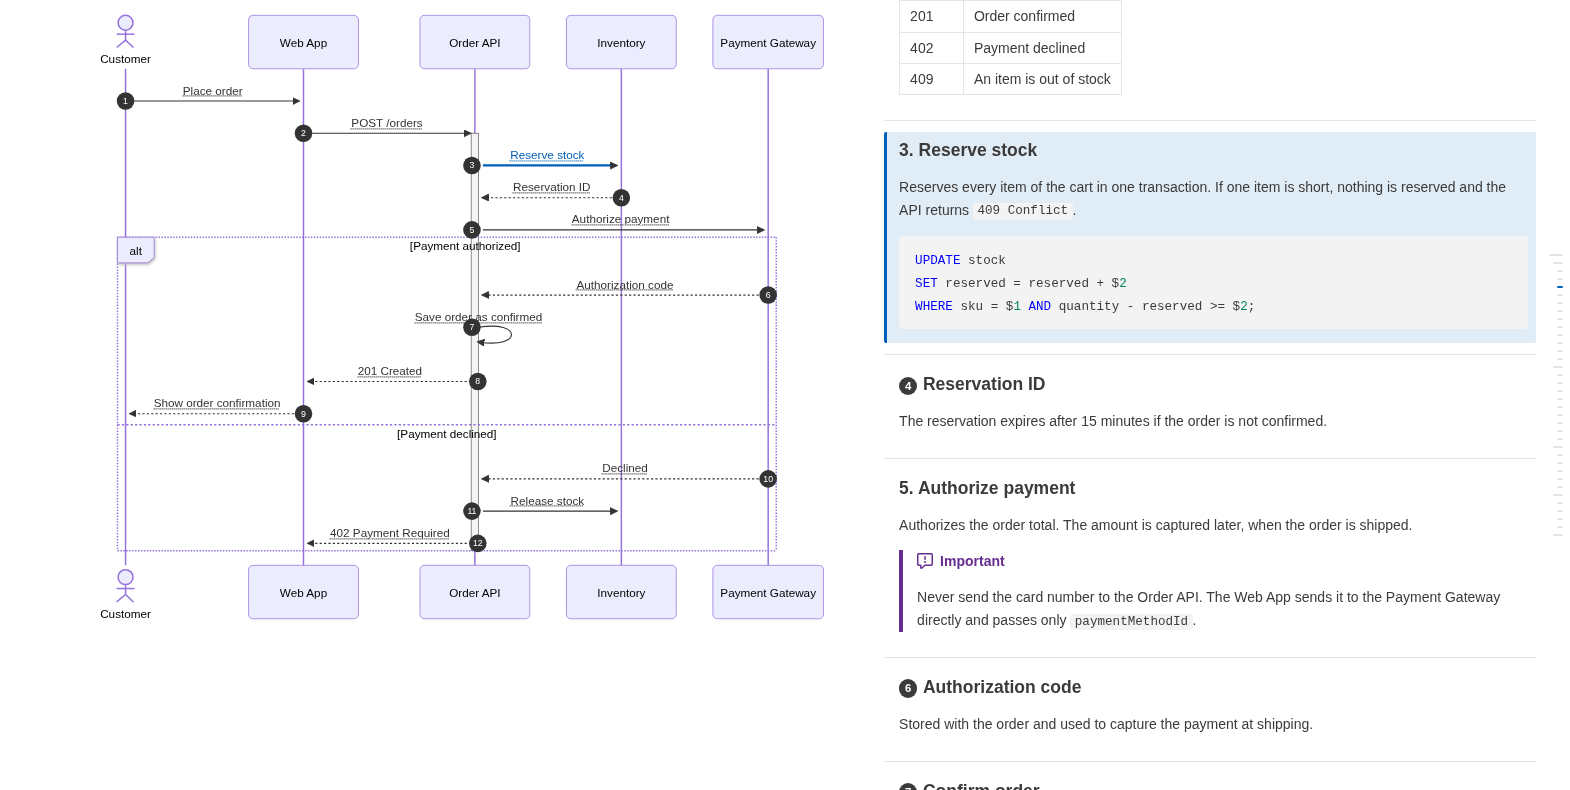
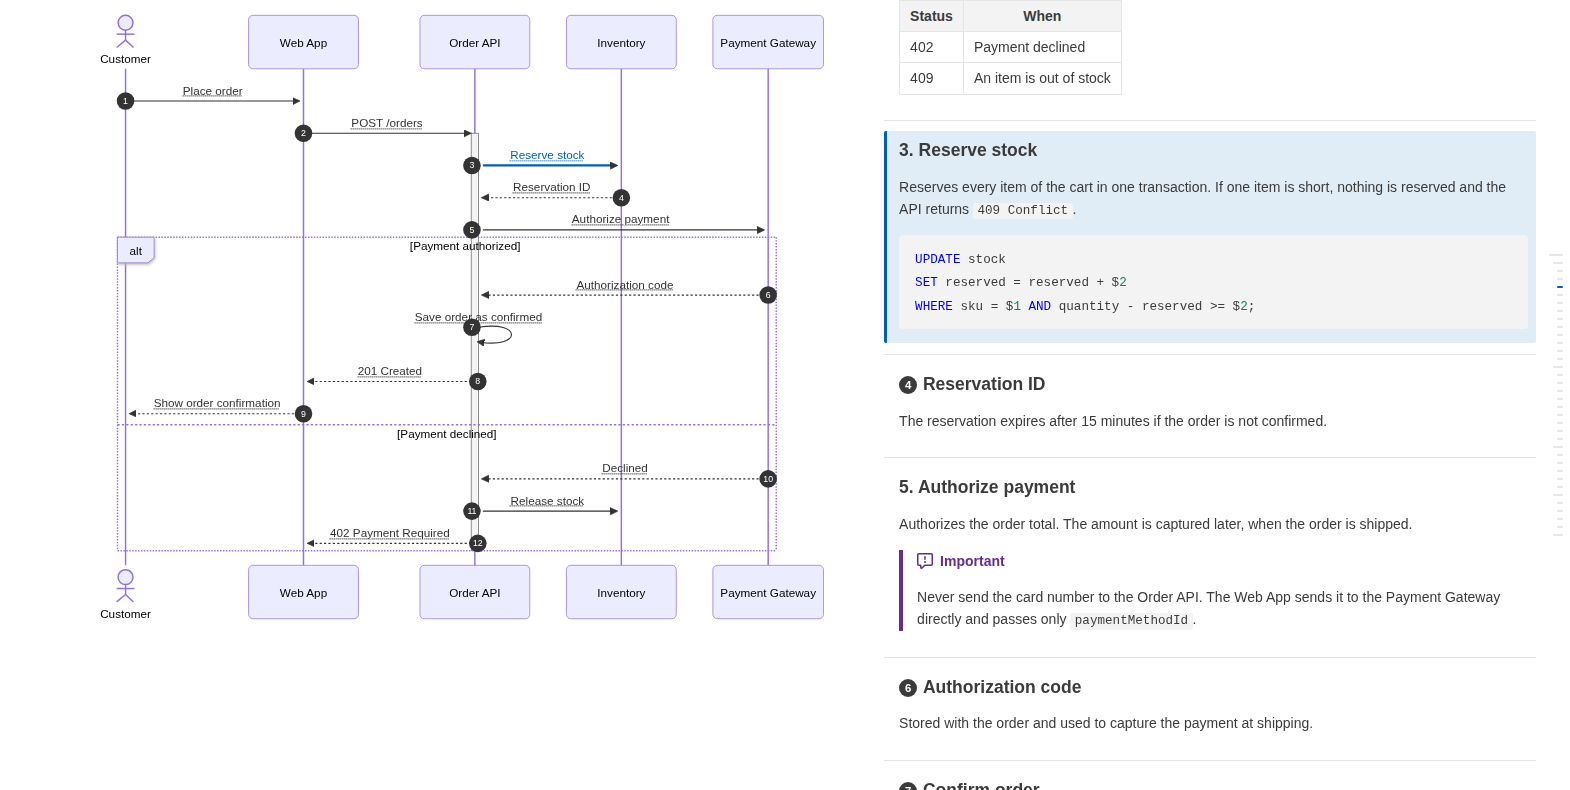
長い表をスクロールしても、ヘッダ行をプレビューの上端に固定して表示する

diff --git a/webview/preview.css b/webview/preview.css
@@ -4,6 +4,7 @@
   --seqnotes-current: var(--vscode-editorLineNumber-activeForeground, #c6c6c6);
   --seqnotes-border: var(--vscode-panel-border, rgba(128, 128, 128, 0.35));
   --seqnotes-muted: var(--vscode-descriptionForeground, rgba(128, 128, 128, 0.9));
+  --seqnotes-th-bg: var(--vscode-textCodeBlock-background, rgba(128, 128, 128, 0.1));
 }
 
 body {
@@ -54,7 +55,15 @@ blockquote {
 
 table { border-collapse: collapse; margin-bottom: 1em; }
 th, td { border: 1px solid var(--seqnotes-border); padding: 4px 10px; }
-th { background: var(--vscode-textCodeBlock-background, rgba(128, 128, 128, 0.1)); }
+th { background: var(--seqnotes-th-bg); }
+/* The header row stays at the top while scrolling through a long table. */
+thead th {
+  position: sticky;
+  top: 0;
+  z-index: 1;
+  /* Opaque: the header background may be translucent, and the rows scroll under it. */
+  background: linear-gradient(var(--seqnotes-th-bg), var(--seqnotes-th-bg)), var(--vscode-editor-background);
+}
 
 /* YAML front matter, shown as the document's metadata */
 .seqnotes-front-matter { font-size: 0.9em; }

diff --git a/webview/export.css b/webview/export.css
@@ -57,6 +57,7 @@ body.seqnotes-export.seqnotes-wide .seqnotes-pair:not(.seqnotes-pair-stacked) {
   body.seqnotes-wide .seqnotes-pair:not(.seqnotes-pair-stacked) { display: block; }
   body.seqnotes-wide .seqnotes-pair:not(.seqnotes-pair-stacked) > .seqnotes-seq-col { position: static; max-height: none; overflow: visible; }
   .seqnotes-splitter { display: none !important; }
+  thead th { position: static; }
 
   .seqnotes-section.seqnotes-active { background: none; border-left-color: transparent; }
   .seqnotes-diagram, pre, table, .markdown-alert, details { break-inside: avoid; }

diff --git a/README.ja.md b/README.ja.md
@@ -18,7 +18,7 @@
 - **矢印・ノードと見出しの紐付け**: 矢印（フローチャートではノード）にマウスを乗せる・クリックすると対応する処理概要がハイライトされ、見出しをクリックすると図の該当箇所へスクロールします。
 - **エディタとの同期**: エディタのスクロールとカーソルにプレビューが追従します（カーソルが矢印やノードの行にあればそれをハイライト）。プレビューをダブルクリックするとエディタの該当行へ移動します。
 - **標準Markdownのまま**: 紐付けの記法はmermaidのコメントとHTMLコメントだけなので、GitHubや標準のMarkdownプレビューでもそのまま正しく表示されます。
-- **設計書でよく使う記法**: 先頭の YAML front matter はメタ情報（タイトル・版数・ステータスなど）の表として表示し（`type: design_doc` を書くとヘッダとして表示。後述）、コードブロックはシンタックスハイライトします。GitHub のアラート（`> [!NOTE]`）とタスクリスト（`- [ ]`）も表示します。
+- **設計書でよく使う記法**: 先頭の YAML front matter はメタ情報（タイトル・版数・ステータスなど）の表として表示し（`type: design_doc` を書くとヘッダとして表示。後述）、コードブロックはシンタックスハイライトします。長い表はスクロールしてもヘッダ行を上端に固定して表示します。GitHub のアラート（`> [!NOTE]`）とタスクリスト（`- [ ]`）も表示します。
 - **幅の調整**: 左右の境界をドラッグして幅を変えられます（ダブルクリックで元に戻ります）。プレビューの幅が広いときは本文を最大 1280px の中央のカラムに収めます。プレビューのタイトルバーのボタンで全幅表示と切り替えられます。
 - **目次**: プレビュー右端の短い線にマウスを乗せると目次（h1〜h3）が開き、クリックでその見出しへ移動します。現在位置の線は強調表示されます。
 - **図・画像の拡大**: mermaid の図にマウスを乗せると右上に出るボタンで、図を全画面で表示します。ホイールで拡大縮小、ドラッグで移動、ダブルクリックで全体表示に戻り、Esc で閉じます。紐付いた矢印をクリックすると、図を閉じて処理概要へ移動します。画像もクリックすると同じように全画面で表示します（リンクの中の画像はクリックでリンクを開きます）。

diff --git a/README.md b/README.md
@@ -18,7 +18,7 @@ Each arrow (or flowchart node) in the diagram is linked to a heading in the desc
 - **Arrow / node ⇔ heading links** — hover or click an arrow (or a flowchart node) to highlight its description, or click a heading to find it in the diagram.
 - **Editor sync** — the preview follows the editor's scroll position and cursor (an arrow or node is highlighted when the cursor is on its line). Double-click in the preview to jump to the source line.
 - **Plain Markdown** — the link syntax is made of mermaid comments and HTML comments, so the same file still renders correctly on GitHub and in the built-in Markdown preview.
-- **Design document friendly** — YAML front matter is shown as a table of the document's metadata (title, version, status...), or as a header with `type: design_doc` (see below), code blocks are syntax highlighted, and GitHub alerts (`> [!NOTE]`) and task lists (`- [ ]`) are rendered.
+- **Design document friendly** — YAML front matter is shown as a table of the document's metadata (title, version, status...), or as a header with `type: design_doc` (see below), code blocks are syntax highlighted, the header row of a long table stays at the top while scrolling, and GitHub alerts (`> [!NOTE]`) and task lists (`- [ ]`) are rendered.
 - **Resizable** — drag the boundary between the columns to resize them; double-click it to reset. In a wide preview, the text is kept in a centered column up to 1280px wide; the button in the preview's title bar switches it to the full width and back.
 - **Table of contents** — hover the short lines at the right edge of the preview to open a table of contents (h1–h3) and jump to a heading. The highlighted line shows where you are.
 - **Diagram and image zoom** — hover a mermaid diagram and click the button at its top right to show it full screen. Scroll the wheel to zoom, drag to pan, double-click to fit it again and press Esc to close. Clicking a linked arrow closes it and shows the step. Images open the same way when clicked (except images in a link, which open the link).

diff --git a/CHANGELOG.md b/CHANGELOG.md
@@ -2,6 +2,7 @@
 
 ## Unreleased
 
+- The header row of a long table stays at the top of the preview while scrolling through the table (also in exported HTML).
 - With `type: design_doc` in the YAML front matter, the document's `title`, `version`, `product`, `status` and `updated` are shown as a header at the top of the preview, with the other entries in a table folded below it (closed by default).
 - The arrow numbers shown at the start of linked headings with `autonumber` can be hidden with `mdDesignDoc.headingNumbers`.
 - GitHub alerts show the icon of their kind before the title, as on GitHub.
